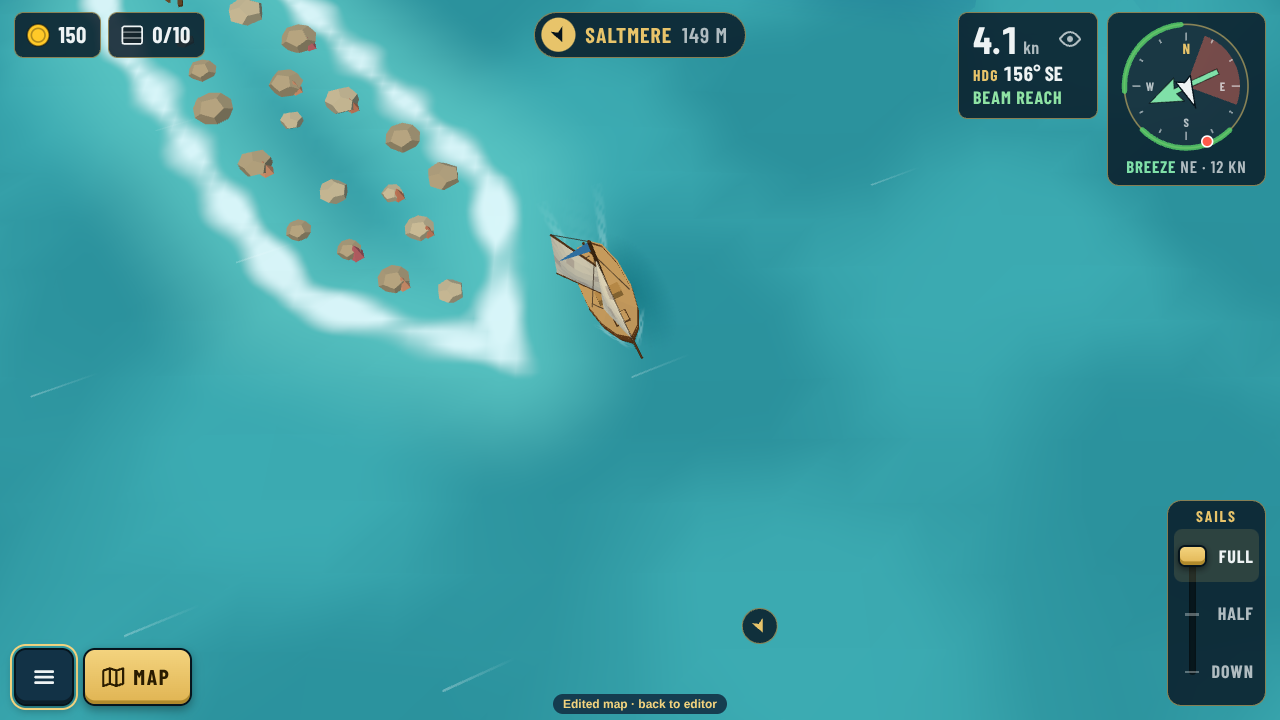
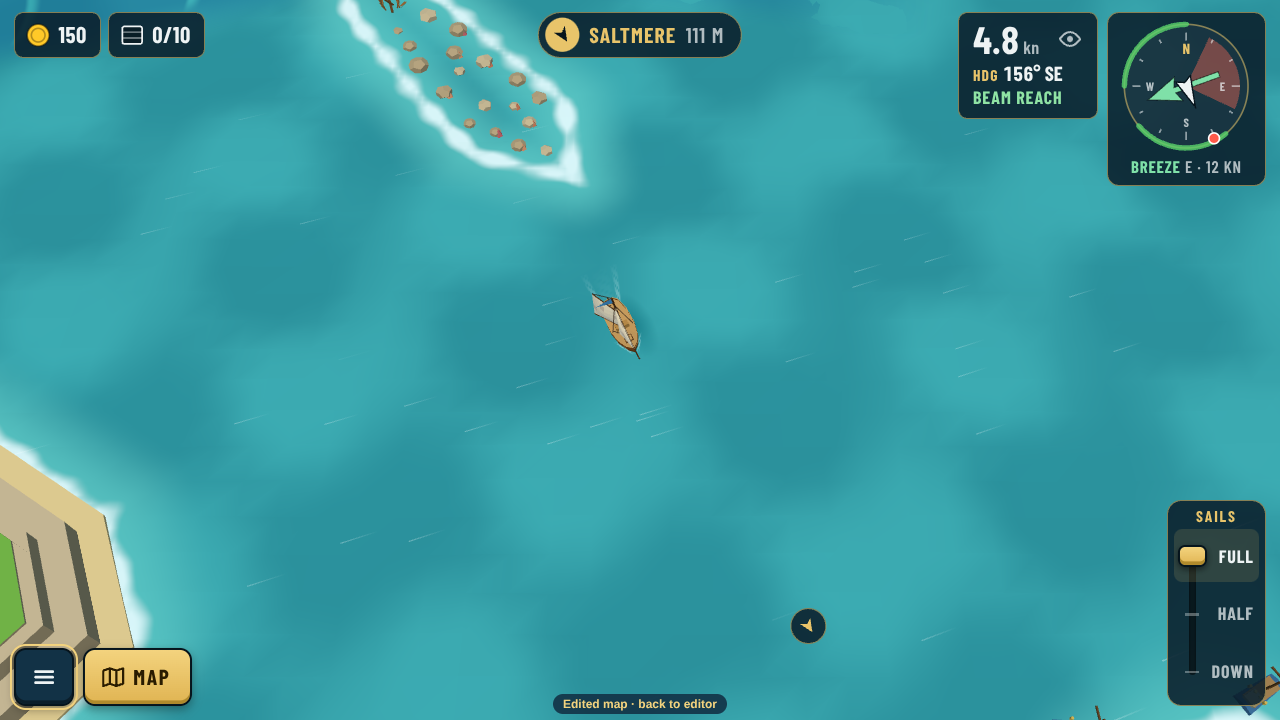
Doldrums look: fine grid sheet (no waves poking through), three looks to compare (A mirror, B cat's paws, C slick swell)
Claude-Session: https://claude.ai/code/session_01WEgFB1wTd73xb1PejvyJis

diff --git a/src/render/calmWater.ts b/src/render/calmWater.ts
@@ -1,5 +1,5 @@
 import * as THREE from 'three';
-import { insetOutline } from '../sim/coast';
+import { coastDistance } from '../sim/coast';
 import { smoothOutline } from '../sim/flowShapes';
 import type { WindZoneDef } from '../sim/map';
 import { zonesTuning } from '../sim/windZones';
@@ -50,52 +50,98 @@ uniform vec3 uFogColor;
 uniform float uFogNear;
 uniform float uFogFar;
 uniform float uFade;
+uniform float uStyle;
 varying float vEdge;
 varying float vGlassy;
 varying vec3 vWorld;
 varying float vFogDepth;
 
+float hash(vec2 p) { return fract(sin(dot(p, vec2(127.1, 311.7))) * 43758.5453); }
+float noise(vec2 p) {
+  vec2 i = floor(p), f = fract(p);
+  vec2 u = f * f * (3.0 - 2.0 * f);
+  return mix(mix(hash(i), hash(i + vec2(1.0, 0.0)), u.x),
+             mix(hash(i + vec2(0.0, 1.0)), hash(i + vec2(1.0, 1.0)), u.x), u.y);
+}
+
 void main() {
   float shore = smoothstep(1.5, 6.0, shoreDistance(vWorld.xz));
   float body = smoothstep(0.0, uFade, vEdge) * shore * vGlassy;
-  // A smooth, pale sheet that hides the flat-shaded chop, with long slow swells of sheen.
-  float swell = 0.5 + 0.5 * sin(dot(vWorld.xz, vec2(0.031, 0.019)) + uTime * 0.25)
-                    * sin(dot(vWorld.xz, vec2(-0.013, 0.027)) - uTime * 0.18);
-  vec3 col = mix(uWaterLight, mix(uWater, uWaterLight, 0.7) * 1.18, swell);
+  vec2 p = vWorld.xz;
+  vec3 col;
+  float alpha;
+  if (uStyle < 0.5) {
+    // A: mirror. A bright, sky-pale sheet with long soft bands of reflected light.
+    float band = 0.5 + 0.5 * sin(dot(p, vec2(0.022, 0.009)) + uTime * 0.12);
+    vec3 sky = mix(uWaterLight, vec3(0.80, 0.93, 0.95), 0.3);
+    col = mix(uWaterLight * 1.08, sky, band);
+    alpha = body;
+  } else if (uStyle < 1.5) {
+    // B: cat's paws. Smooth still water, with darker ruffled patches where a puff touches it,
+    // drifting slowly with the light air.
+    vec3 still = mix(uWater, uWaterLight, 0.75) * 1.12;
+    float n = noise(p * 0.045 + vec2(uTime * 0.05, uTime * 0.03));
+    n += 0.5 * noise(p * 0.11 - vec2(uTime * 0.04, 0.0));
+    float paw = smoothstep(0.9, 1.15, n);
+    float ripple = smoothstep(0.6, 0.95, sin(p.x * 0.9 + p.y * 0.5 + uTime * 1.6 + n * 6.0));
+    col = mix(still, mix(uWater * 0.95, uWaterLight * 1.1, ripple * 0.6), paw * 0.9);
+    alpha = body;
+  } else {
+    // C: slick swell. Deep, still, darker water with long pale swell lines rolling through.
+    vec3 deep = uWater * vec3(0.78, 0.9, 0.95);
+    float s = sin(dot(p, vec2(0.06, 0.035)) - uTime * 0.35);
+    float line = smoothstep(0.55, 0.95, s) * (1.0 - smoothstep(0.95, 1.0, s) * 0.5);
+    col = mix(deep, uWaterLight * 1.2, line * 0.75);
+    alpha = body;
+  }
   col = mix(col, uFogColor, smoothstep(uFogNear, uFogFar, vFogDepth));
-  float alpha = body * (0.62 + 0.12 * swell);
+  alpha = clamp(alpha * 1.25, 0.0, 0.9);
   alpha *= 1.0 - smoothstep(uFogNear, uFogFar, vFogDepth) * 0.6;
   gl_FragColor = vec4(col, alpha);
   #include <colorspace_fragment>
 }
 `;
 
-/** The zone's sheet: a fade ring from the outline in to `fade`, then the inset filled. */
+/** Grid spacing of a zone's sheet (units): fine enough to ride the waves, as the currents do. */
+const STEP = 3;
+
+/**
+ * The zone's sheet: a grid over the zone, each point knowing how far inside the fade it is. The
+ * fade straddles the outline like the wind's: half outside, half inside. Squares wholly outside
+ * are left out.
+ */
 function zoneGeometry(zone: WindZoneDef, glassy: number, fade: number) {
   if (zone.outline.length < 3) return null;
-  // The fade straddles the outline like the wind's: half outside, half inside.
-  const outer = insetOutline(smoothOutline(zone.outline), -fade / 2);
-  const inner = insetOutline(outer, fade);
-  if (inner.length < 3) return null;
+  const outline = smoothOutline(zone.outline);
+  const xs = outline.map((p) => p[0]),
+    ys = outline.map((p) => p[1]);
+  const x0 = Math.min(...xs) - fade / 2,
+    y0 = Math.min(...ys) - fade / 2;
+  const nx = Math.ceil((Math.max(...xs) + fade / 2 - x0) / STEP) + 1,
+    ny = Math.ceil((Math.max(...ys) + fade / 2 - y0) / STEP) + 1;
   const position: number[] = [],
     edge: number[] = [],
     glass: number[] = [];
-  const add = ([x, y]: [number, number], e: number) => {
-    position.push(x, 0, -y);
-    edge.push(e);
-    glass.push(glassy);
-  };
-  outer.forEach((p) => add(p, 0));
-  inner.forEach((p) => add(p, fade));
-  const n = outer.length;
+  for (let j = 0; j < ny; j++)
+    for (let i = 0; i < nx; i++) {
+      const x = x0 + i * STEP,
+        y = y0 + j * STEP;
+      const d = coastDistance(x, y, outline).distance;
+      position.push(x, 0, -y);
+      edge.push(Math.min(fade, Math.max(0, fade / 2 - d)));
+      glass.push(glassy);
+    }
   const index: number[] = [];
-  for (let i = 0; i < n; i++) {
-    const j = (i + 1) % n;
-    index.push(i, n + i, j, j, n + i, n + j);
-  }
-  const vectors = inner.map(([x, y]) => new THREE.Vector2(x, y));
-  for (const [p, q, r] of THREE.ShapeUtils.triangulateShape(vectors, []))
-    index.push(n + p!, n + q!, n + r!);
+  for (let j = 0; j + 1 < ny; j++)
+    for (let i = 0; i + 1 < nx; i++) {
+      const a = j * nx + i,
+        b = a + 1,
+        c = a + nx,
+        d = c + 1;
+      if (!edge[a] && !edge[b] && !edge[c] && !edge[d]) continue;
+      index.push(a, b, c, b, d, c);
+    }
+  if (!index.length) return null;
   const g = new THREE.BufferGeometry();
   g.setAttribute('position', new THREE.Float32BufferAttribute(position, 3));
   g.setAttribute('aEdge', new THREE.Float32BufferAttribute(edge, 1));
@@ -127,6 +173,7 @@ export class CalmWater {
         uFogNear: { value: 120 },
         uFogFar: { value: 210 },
         uFade: { value: tuning.fadeUnits },
+        uStyle: { value: 0 },
       },
     });
     for (const z of zones) {

diff --git a/docs/reviews/wind-zones/README.md b/docs/reviews/wind-zones/README.md
@@ -1,13 +1,20 @@
-# Wind zones as built (decision 0144)
+# Wind zones: the doldrums look (decision 0144)
 
-Real game captures, taken with [src/capture.cjs](src/capture.cjs) against `npx vite --port 5199`. A doldrums zone ("The Glass", an oval east of the middle) is painted into a copy of today's map and sailed through the editor's "Play this map" path (`?map=edited`). The shipped ring itself has no wind zones (0140).
+Real game captures, taken with [src/capture.cjs](src/capture.cjs) against `npx vite --port 5199`. A doldrums zone ("The Glass", an oval east of the middle) is painted into a copy of today's map and sailed through the editor's "Play this map" path (`?map=edited`). The shipped ring itself has no wind zones (0140). The boat sits just inside the zone's west edge, so the open sea is on the left of each picture.
 
-| Zones on | Zones off (Settings › Wind zones) |
-|---|---|
-| ![Doldrums, desktop](doldrums-desktop.png) | ![Same spot with zones off](doldrums-off-desktop.png) |
+Guillaume found the first try "not really visible". It was too faint, and its fill was too coarse, so the waves poked through in patches. The sheet is now a fine grid that rides the waves. Three looks to choose from:
 
-![Doldrums, phone portrait](doldrums-portrait.png)
+| A, mirror | B, cat's paws | C, slick swell |
+|---|---|---|
+| ![A](look-A-mirror-desktop.png) | ![B](look-B-catspaws-desktop.png) | ![C](look-C-swell-desktop.png) |
+| ![A phone](look-A-mirror-portrait.png) | ![B phone](look-B-catspaws-portrait.png) | ![C phone](look-C-swell-portrait.png) |
 
-- **In the doldrums** the wind drops to a light or calm 3 to 4 kn (a breeze of 11 kn outside), so the wind streaks almost vanish. The water is a paler, glassy sheet with slow faint swells. Its edge fades in over the same 40 units as the wind.
-- **With Wind zones off** the same spot has the open sea's breeze and chop.
-- How glassy each kind looks is `glassy` in `weather.json` › `zones.kinds`: doldrums 0.7, a sheltered lagoon 0.3, others none. Any zone can set its own value with `tune`.
+- **A, mirror:** a smooth, pale, glassy sheet with long soft bands of reflected light (recommended: the clearest "no wind here").
+- **B, cat's paws:** still water with darker ruffled patches drifting where a puff touches it.
+- **C, slick swell:** deeper, darker still water with long pale swell lines rolling through.
+
+With Wind zones off, the same spot has the open sea's breeze and chop:
+
+![Zones off](doldrums-off-desktop.png)
+
+How strong the look is per kind is `glassy` in `weather.json` › `zones.kinds` (doldrums 0.7, a sheltered lagoon 0.3, others none). Any zone can set its own value with `tune`.
